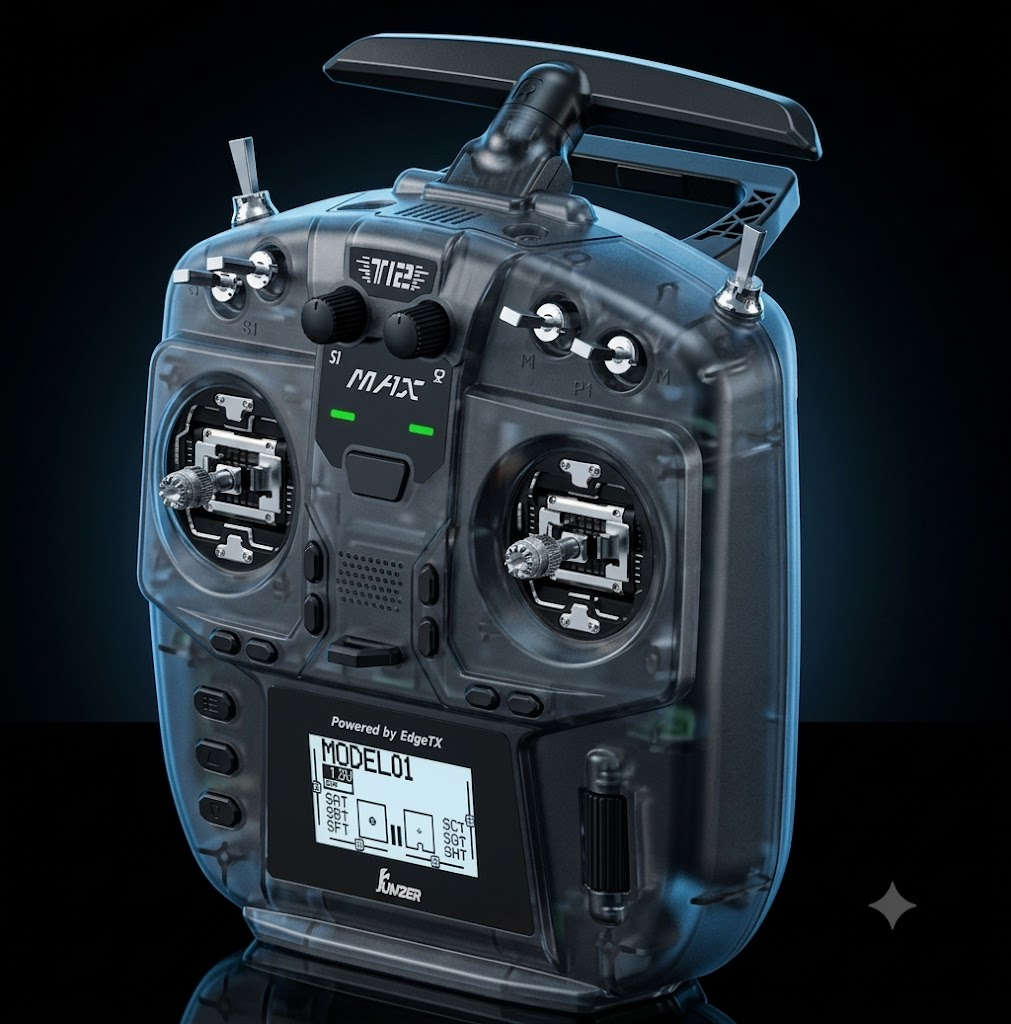
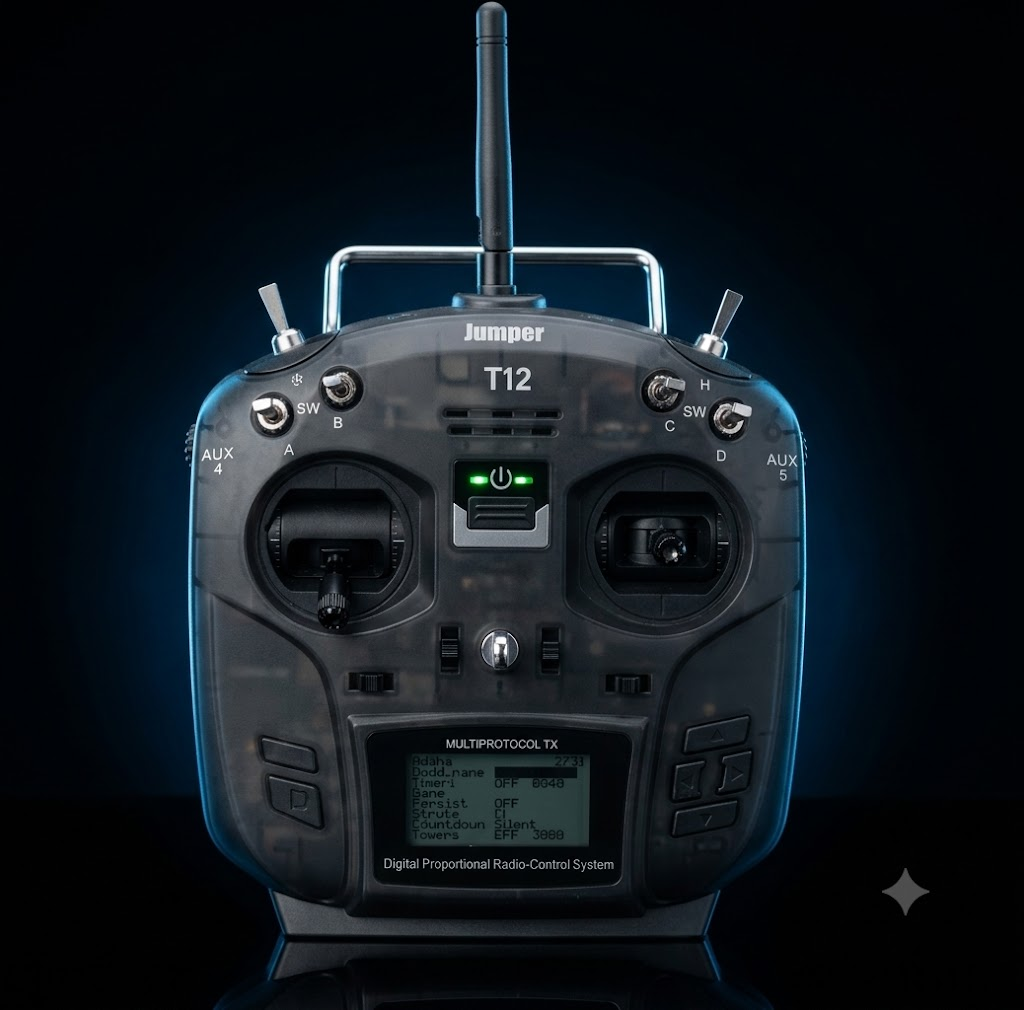
jumper t12

diff --git a/index.html b/index.html
@@ -510,7 +510,7 @@
       { brand: 'Jumper', name: 'T18',      variant: 'color' , img: "jumper-t18.jpeg"},
       { brand: 'Jumper', name: 'T-Pro/V2',    variant: 'bw', img: 'jumper-t-pro.jpeg' },
       { brand: 'Jumper', name: 'T12',      variant: 'bw', img: "jumper-t12.jpeg" },
-      { brand: 'Jumper', name: 'T12 MAX',  variant: 'bw' , img: "jumper-t12.jpeg"},
+      { brand: 'Jumper', name: 'T12 MAX',  variant: 'bw' , img: "jumper-t12-max.jpeg"},
       { brand: 'Jumper', name: 'T14',      variant: 'bw' , img: "jumper-t14.jpeg"},
       { brand: 'Jumper', name: 'T20',      variant: 'bw' , img: "jumper-t20.jpeg"}
     ];